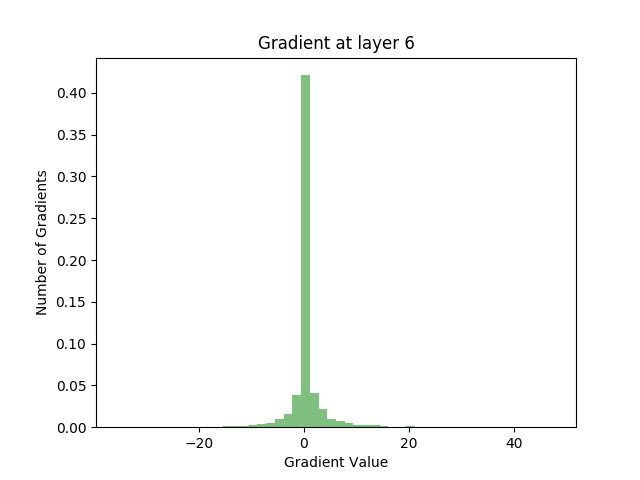
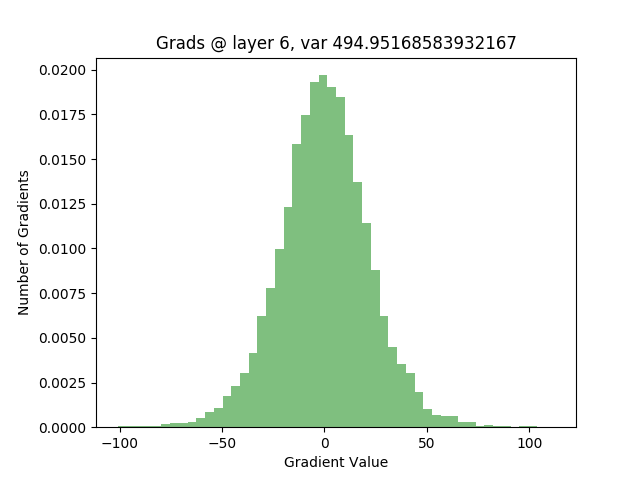
batchnorm demo

diff --git a/batchnorm-demo.py b/batchnorm-demo.py
@@ -8,22 +8,29 @@ n_layers = 20
 layer_dim = [hidden_layer_dim] * n_layers # each one has 100 neurons
 
 hs = [X]
+hs_not_batchnormed = [X] # saves the results before we do batchnorm, because we need this in the backward pass.
 zs = [X]
 ws = []
-
+gamma, beta = 1, 0
 # the forward pass
 for i in np.arange(n_layers):
 	h = hs[-1] # get the input into this hidden layer
 	W = np.random.normal(size = (layer_dim[i], h.shape[0])) * 0.01 # weight init: gaussian around 0
 	z = np.dot(W, h)
 	h_out = z * (z > 0)
+	# save the not batchnormmed part for backprop
+	hs_not_batchnormed.append(h_out)
+	# apply batch normalization
+	h_out = (h_out - np.mean(h_out, axis = 0)) / np.std(h_out, axis = 0)
+	# scale and shift
+	h_out = gamma * h_out + beta
 	ws.append(W)
 	zs.append(z)
 	hs.append(h_out)
 
 
 
-dLdh = 100 * np.random.randn(hidden_layer_dim, input_dim) # random incoming grad into our last layer
+dLdh = 0.01 * np.random.randn(hidden_layer_dim, input_dim) # random incoming grad into our last layer
 h_grads = [dLdh]
 w_grads = []
 
@@ -31,6 +38,18 @@ w_grads = []
 for i in np.flip(np.arange(1, n_layers), axis = 0):
 	# get the incoming gradient
 	incoming_loss_grad = h_grads[-1]
+	# backprop through the batchnorm layer
+	#the y_i is the restult of batch norm, so h_out or hs[i]
+	dldx_hat = incoming_loss_grad * gamma
+	dldvar = np.sum(dldx_hat * (hs_not_batchnormed[i] - np.mean(hs_not_batchnormed[i], axis = 0)) * -.5 * np.power(np.var(hs_not_batchnormed[i], axis = 0), -1.5), axis = 0)
+	dldmean = np.sum(dldx_hat * -1/np.std(hs_not_batchnormed[i], axis = 0), axis = 0) + dldvar * -2 * (hs_not_batchnormed[i] - np.mean(hs_not_batchnormed[i], axis = 0))/hs_not_batchnormed[i].shape[0]
+	# the following is dL/hs_not_batchnormmed[i] (aka dL/dx_i) in the paper!
+	dldx = dldx_hat * 1/np.std(hs_not_batchnormed[i], axis = 0) + dldvar * -2 * (hs_not_batchnormed[i] - np.mean(hs_not_batchnormed[i], axis = 0))/hs_not_batchnormed[i].shape[0] + dldmean/hs_not_batchnormed[i].shape[0]
+	# although we don't need it for this demo, for completeness we also compute the derivatives with respect to gamma and beta. 
+	dldgamma = incoming_loss_grad * hs[i]
+	dldbeta = np.sum(incoming_loss_grad)
+	# now incoming_loss_grad should be replaced by that backpropped result
+	incoming_loss_grad = dldx
 	# backprop through the relu
 	print(incoming_loss_grad.shape)
 	dLdz = incoming_loss_grad * (zs[i] > 0)
@@ -55,7 +74,7 @@ for i, activation in enumerate(hs):
 	plt.ylabel('Number of Activations')
 	# Tweak spacing to prevent clipping of ylabel
 	plt.subplots_adjust(left=0.15)
-	#plt.savefig('activation-plots/act-{}.png'.format(i))	
+	plt.savefig('activation-plots/act-{}.png'.format(i))	
 	plt.ticklabel_format(axis='x',style='sci',scilimits=(1,4))
 
 w_grads = list(reversed(w_grads))
@@ -68,7 +87,7 @@ for i, grad in enumerate(w_grads):
 	plt.ylabel('Number of Gradients')
 	# Tweak spacing to prevent clipping of ylabel
 	plt.subplots_adjust(left=0.15)
-	#plt.savefig('gradient-plots/grad-{}.png'.format(i))	
+	plt.savefig('gradient-plots/grad-{}.png'.format(i))	
 	plt.ticklabel_format(axis='x',style='sci',scilimits=(1,4))	
 
 # first_hidden_activation = hs[1]
